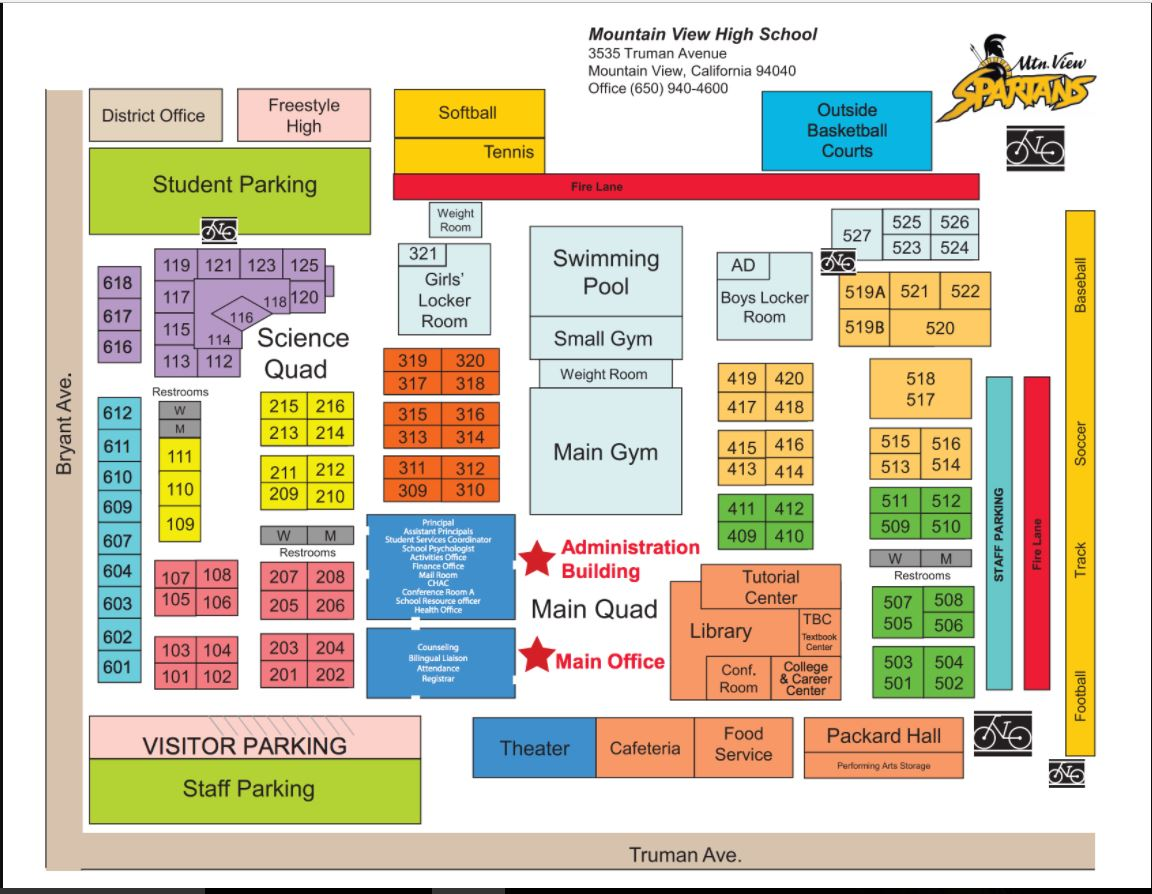
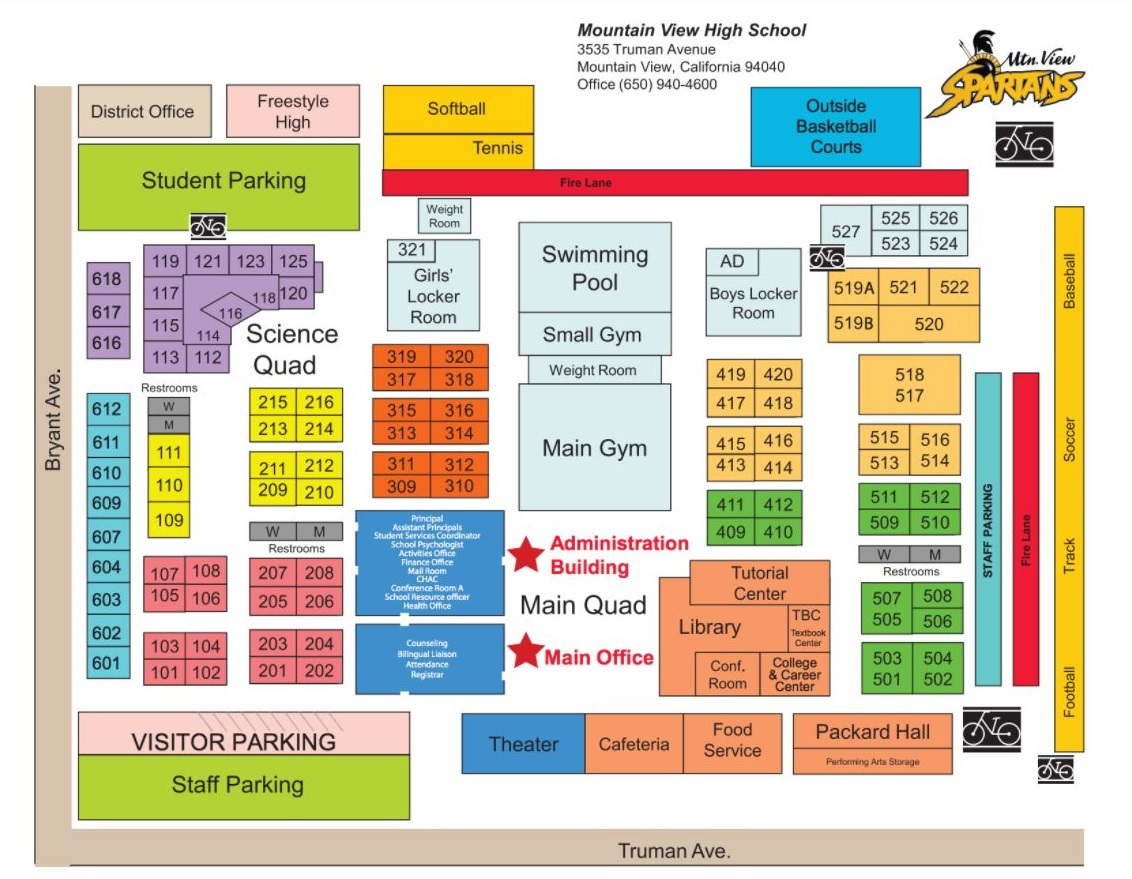
Fixed map sizing
yay

diff --git a/src/components/map.js b/src/components/map.js
@@ -5,6 +5,8 @@ import ReactPDF from 'react-pdf/build/entry.webpack';
 
 import map from '../assets/SchoolMap.JPG';
 
+import './map.css';
+
 class Map extends Component {
   onDocumentLoad({ total }) {
     this.setState({ total });
@@ -15,7 +17,7 @@ class Map extends Component {
   render() {
     return (
       <div>
-        <img src={map} />
+        <img className="schoolmap" src={map} />
       </div>
     );
   }

diff --git a/src/components/map.css b/src/components/map.css
@@ -1,0 +1,9 @@
+.schoolmap {
+  width: 100%;
+  max-width: 700px;
+  margin: 0 auto;
+  left: 0;
+  display: block;
+  right: 0;
+  padding-top: 10px;
+}
